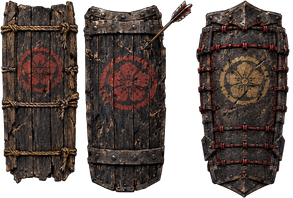
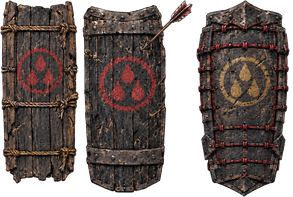
Shields carry the Blood Shogun's crest (three blood drops in a ring); the flower mon is now the Kazuma crest
Claude-Session: https://claude.ai/code/session_01DuYv9YtWKtAxSjLXsjuVQL

diff --git a/index.html b/index.html
@@ -4963,8 +4963,9 @@ _loadAtlas(EPARTS_SRC,im=>{_epartsImg=im;_epartsReady=true;},'enemy');
 _loadAtlas(ENV_SRC   ,im=>{_envImg=im;_envReady=true;},    'scenery');
 _loadAtlas(APARTS_SRC,im=>{_apartsImg=im;_apartsReady=true;},'archer');
 // Painted te-date shields, three tiers: rope-bound planks, iron-banded
-// lacquer (with an arrow in it), and iron-plated elite.
-const SHIELD_SRC=['shield-parts.png'],SHIELDS=[[0,0,80,184],[83,0,110,193],[196,0,94,198]];
+// lacquer (with an arrow in it), and iron-plated elite. All carry the Blood
+// Shogun's crest: three blood drops in a ring.
+const SHIELD_SRC=['shield-parts.png'],SHIELDS=[[0,0,79,184],[82,0,111,193],[196,0,94,197]];
 let _shieldImg=null;
 _loadAtlas(SHIELD_SRC,im=>{_shieldImg=im;},'shield');
 _loadAtlas(BPARTS_SRC,im=>{_bpartsImg=im;_bpartsReady=true;_bossAtlas[0]=im;},'boss');
